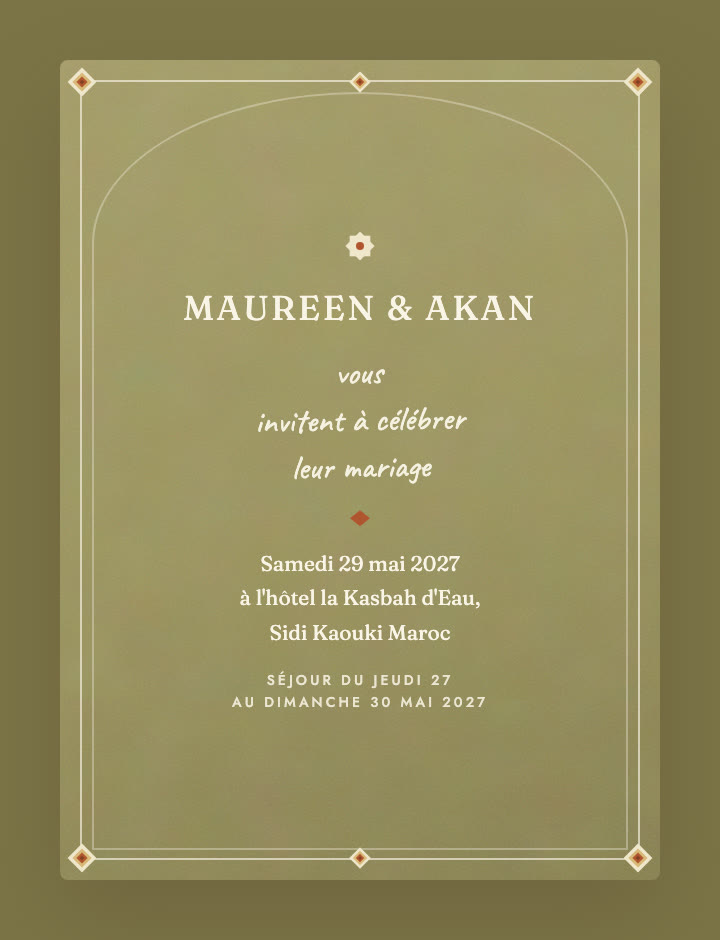
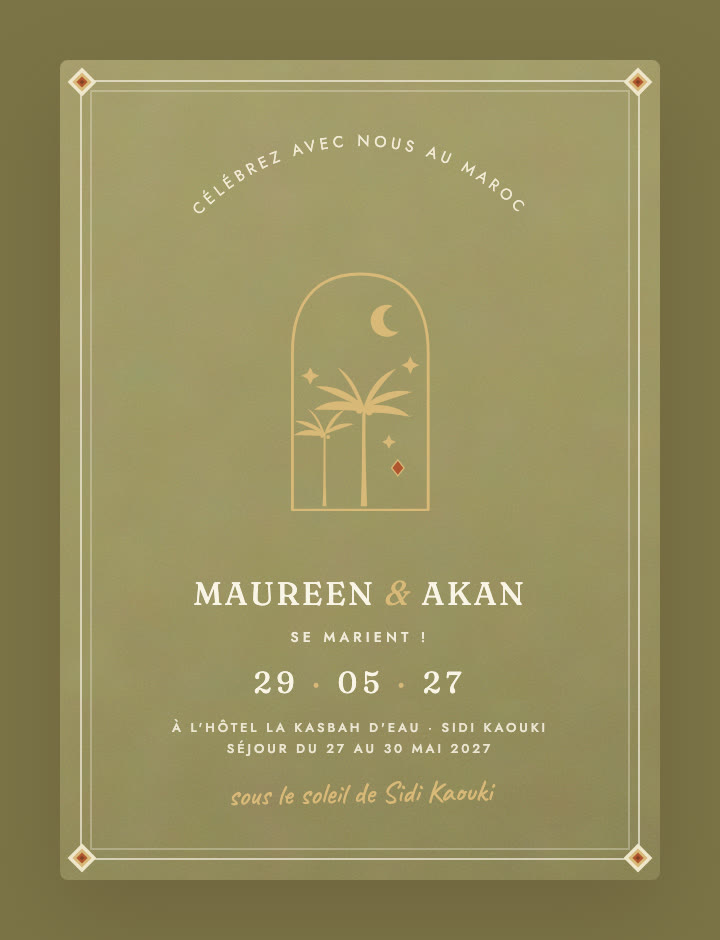
Carte d'invitation v2 : arche aux palmiers, texte courbé, grosse date + enveloppe plus visible

diff --git a/components/invitation-reveal.tsx b/components/invitation-reveal.tsx
@@ -1,23 +1,5 @@
 import { wedding } from "@/content/wedding";
 
-/** Étoile à huit branches (khatam, motif zellige) : deux carrés croisés. */
-function KhatamStar({ className = "" }: { className?: string }) {
-  return (
-    <svg viewBox="0 0 24 24" className={className} aria-hidden>
-      <rect x="5.8" y="5.8" width="12.4" height="12.4" fill="#efe6cc" />
-      <rect
-        x="5.8"
-        y="5.8"
-        width="12.4"
-        height="12.4"
-        fill="#efe6cc"
-        transform="rotate(45 12 12)"
-      />
-      <circle cx="12" cy="12" r="2.4" fill="#b0552e" />
-    </svg>
-  );
-}
-
 /** Losange kilim (œil terracotta cerclé d'or sur fond crème). */
 function KilimDiamond({ className = "" }: { className?: string }) {
   return (
@@ -30,57 +12,124 @@ function KilimDiamond({ className = "" }: { className?: string }) {
   );
 }
 
+/** Arche : palmiers, croissant de lune et étoiles (silhouettes dorées). */
+function ArchScene({ className = "" }: { className?: string }) {
+  const gold = "#d9b878";
+  return (
+    <svg
+      viewBox="0 0 100 150"
+      className={className}
+      fill="none"
+      stroke={gold}
+      strokeWidth="1.6"
+      strokeLinecap="round"
+      strokeLinejoin="round"
+      aria-hidden
+    >
+      {/* Arche (élargie) */}
+      <path d="M12 146V58c0-30 15-44 38-44s38 14 38 44v88" />
+      <path d="M12 146h76" strokeWidth="1.2" />
+      {/* Petit palmier (silhouette, en retrait) */}
+      <g fill="#d9b878" stroke="none">
+        <path d="M30 103c-6.2-2.5-12.4-2.5-17.4 1.2 5.6 0 11.8 0 17.4.6z" />
+        <path d="M30 103c-5.6-5.6-11.2-7.4-16.7-6.8 5.6 2.5 11.8 5 16.1 7.4z" />
+        <path d="M30 103c-2.5-6.8-5-11.2-9.3-13.6 3.7 4.3 6.2 8.7 8 13.6z" />
+        <path d="M30 103c2.5-7.4 6.2-11.2 11.2-13-4.3 4.3-7.4 8.7-9.9 13z" />
+        <path d="M30 103c5.6-5 11.2-6.2 16.7-5-5.6 1.9-11.8 3.7-16.1 5.6z" />
+        <path d="M28.9 144c.6-10 .4-22 .6-41l1.1.1c-.2 19 .1 31 .5 40.9z" />
+        <circle cx="28.6" cy="104.6" r="1.1" />
+        <circle cx="32" cy="105.2" r="1.1" />
+      </g>
+      {/* Croissant de lune */}
+      <path
+        d="M68.5 32a9 9 0 1 0 3 14.2A7 7 0 1 1 68.5 32z"
+        fill="#d9b878"
+        stroke="none"
+      />
+      {/* Palmier en silhouette (feuilles pleines) */}
+      <g fill="#d9b878" stroke="none">
+        <path d="M52 88C42 84 32 84 24 90c9 0 19 0 28 1z" />
+        <path d="M52 88c-9-9-18-12-27-11 9 4 19 8 26 12z" />
+        <path d="M52 88c-4-11-8-18-15-22 6 7 10 14 13 22z" />
+        <path d="M52 88c4-12 10-18 18-21-7 7-12 14-16 21z" />
+        <path d="M52 88c9-8 18-10 27-8-9 3-19 6-26 9z" />
+        <path d="M52 88c10-2 20 0 26 6-9-2-19-3-26-2z" />
+        <path d="M50.2 144c1-18 .6-36 1-56l1.8.1c-.4 20 .2 38 .8 55.9z" />
+        <circle cx="49.4" cy="90.5" r="1.7" />
+        <circle cx="55" cy="91.5" r="1.7" />
+      </g>
+      {/* Étoiles khatam (4 branches) et losange zellige ocre */}
+      <g fill="#d9b878" stroke="none">
+        <path d="m22 66 1.6 3.4L27 71l-3.4 1.6L22 76l-1.6-3.4L17 71l3.4-1.6z" />
+        <path d="m78 60 1.6 3.4L83 65l-3.4 1.6L78 70l-1.6-3.4L73 65l3.4-1.6z" />
+        <path d="m66 104 1.3 2.7 2.7 1.3-2.7 1.3-1.3 2.7-1.3-2.7-2.7-1.3 2.7-1.3z" />
+      </g>
+      <path
+        d="m71 118 3.5 4.5-3.5 4.5-3.5-4.5z"
+        fill="#b0552e"
+        stroke="#d9b878"
+        strokeWidth="0.8"
+      />
+    </svg>
+  );
+}
+
 /**
- * Carte d'invitation façon « Pueblo » (faire-part kilim) : papier vert
- * mousse texturé, double liseré crème, losanges kilim aux angles.
+ * Carte d'invitation (validée) : papier vert mousse texturé, liseré et
+ * losanges kilim, texte courbé, arche aux palmiers, grosse date à points.
  */
 export function InvitationCard({ className = "" }: { className?: string }) {
-  const { couple, displayDate, venue } = wedding;
+  const { couple, venue } = wedding;
   return (
     <div
       className={`texture-moss relative overflow-hidden rounded-[4px] ${className}`}
     >
-      {/* Liseré extérieur + arche marocaine intérieure (porte de riad) */}
-      <div
-        className="absolute inset-2.5 border border-cream/65"
-        aria-hidden
-      />
-      <div
-        className="absolute inset-x-[16px] top-[16px] bottom-[15px] border border-cream/35 [border-radius:50%_50%_0_0/20%_20%_0_0]"
-        aria-hidden
-      />
-      {/* Losanges kilim aux angles et au centre des bords haut/bas */}
+      {/* Double liseré + losanges kilim aux angles (touches ocre) */}
+      <div className="absolute inset-2.5 border border-cream/65" aria-hidden />
+      <div className="absolute inset-[15px] border border-cream/30" aria-hidden />
       <KilimDiamond className="absolute left-[3px] top-[3px] h-4 w-4" />
       <KilimDiamond className="absolute right-[3px] top-[3px] h-4 w-4" />
       <KilimDiamond className="absolute bottom-[3px] left-[3px] h-4 w-4" />
       <KilimDiamond className="absolute bottom-[3px] right-[3px] h-4 w-4" />
-      <KilimDiamond className="absolute left-1/2 top-[5px] h-3 w-3 -translate-x-1/2" />
-      <KilimDiamond className="absolute bottom-[5px] left-1/2 h-3 w-3 -translate-x-1/2" />
-      <div className="relative mx-8 flex h-full flex-col items-center justify-center gap-2.5 px-0.5 py-8 text-center text-cream">
-        <KhatamStar className="h-5 w-5" />
-        <p className="font-serif whitespace-nowrap text-[17px] uppercase leading-[1.3] tracking-[0.08em]">
-          {couple.partner1} & {couple.partner2}
-        </p>
-        <p className="script -rotate-1 text-[17px] leading-snug text-cream/95">
-          vous
-          <br />
-          invitent à célébrer
-          <br />
-          leur mariage
-        </p>
-        <span
-          className="mx-auto block h-2 w-2.5 [clip-path:polygon(50%_0,100%_50%,50%_100%,0_50%)] bg-[#b0552e]"
-          aria-hidden
-        />
-        <div className="font-serif text-[10.5px] leading-relaxed">
-          <p>{displayDate}</p>
-          <p>à l&apos;hôtel la {venue.name},</p>
-          <p>Sidi Kaouki Maroc</p>
+      <div className="relative flex h-full flex-col items-center justify-center gap-1.5 px-6 py-8 text-center text-cream">
+        {/* « Célébrez avec nous » sur une courbe */}
+        <svg viewBox="0 0 220 62" className="w-[196px]" aria-hidden>
+          <path id="arcpath" d="M14 58A124 124 0 0 1 206 58" fill="none" />
+          <text
+            fill="#f2ead6"
+            fontSize="8.8"
+            letterSpacing="2.4"
+            style={{ fontFamily: "var(--font-jost), sans-serif" }}
+          >
+            <textPath href="#arcpath" startOffset="50%" textAnchor="middle">
+              CÉLÉBREZ AVEC NOUS AU MAROC
+            </textPath>
+          </text>
+        </svg>
+        <div className="flex min-h-0 flex-1 items-center justify-center pb-4">
+          <ArchScene className="h-[134px]" />
         </div>
-        <p className="smallcaps !text-[7px] !leading-relaxed !tracking-[0.22em] text-cream/85">
-          Séjour du jeudi 27
+        <p className="mt-1 font-serif text-[16px] uppercase leading-tight tracking-[0.08em]">
+          {couple.partner1}{" "}
+          <span className="font-serif italic normal-case text-[17px] text-[#d9b878]">
+            &
+          </span>{" "}
+          {couple.partner2}
+        </p>
+        <p className="smallcaps !text-[7px] !tracking-[0.3em] text-cream/90">
+          se marient !
+        </p>
+        <p className="font-serif text-[15px] tracking-[0.18em]">
+          29<span className="text-[#d9b878]"> · </span>05
+          <span className="text-[#d9b878]"> · </span>27
+        </p>
+        <div className="smallcaps !text-[6.5px] !leading-relaxed !tracking-[0.22em] text-cream/85">
+          À l&apos;hôtel la {venue.name} · Sidi Kaouki
           <br />
-          au dimanche 30 mai 2027
+          Séjour du 27 au 30 mai 2027
+        </div>
+        <p className="script -rotate-1 text-[15px] text-[#d9b878]">
+          sous le soleil de Sidi Kaouki
         </p>
       </div>
     </div>

diff --git a/app/globals.css b/app/globals.css
@@ -98,7 +98,7 @@ body {
 .invite-envelope {
   position: absolute;
   left: 50%;
-  bottom: -24px;
+  bottom: -4px;
   width: 340px;
   height: 220px;
   transform: translateX(-50%);
@@ -170,10 +170,10 @@ body {
   position: absolute;
   inset: 46% 0 0;
   z-index: 2;
-  background: linear-gradient(180deg, #fbf7ec 0%, #f1e9d6 100%);
-  border: 1px solid #e0d3b4;
+  background: linear-gradient(180deg, #fdfaf1 0%, #efe5cd 100%);
+  border: 1px solid #d9c9a3;
   border-radius: 8px;
-  box-shadow: 0 14px 34px rgba(85, 64, 44, 0.18);
+  box-shadow: 0 16px 36px rgba(85, 64, 44, 0.26);
 }
 .invite-pocket::before {
   content: "";
@@ -211,7 +211,7 @@ body {
     z-index: 6;
   }
   100% {
-    transform: translate(-50%, -2%) scale(1.1);
+    transform: translate(-50%, -10%) scale(1.06);
     z-index: 6;
   }
 }

diff --git a/app/carte/page.tsx b/app/carte/page.tsx
@@ -1,7 +1,7 @@
 import { InvitationCard } from "@/components/invitation-reveal";
 
-// Page utilitaire : rendu isolé de la carte kilim (sert à générer
-// l'image de l'email d'invitation via une capture headless).
+// Page utilitaire : rendu isolé de la carte (sert à générer l'image de
+// l'email d'invitation via une capture headless — fond assorti à l'email).
 export default function CartePage() {
   return (
     <main className="flex min-h-svh items-center justify-center bg-[#7c7448] p-8">
